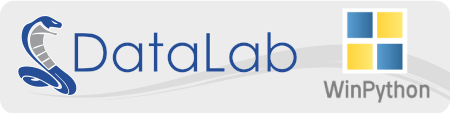
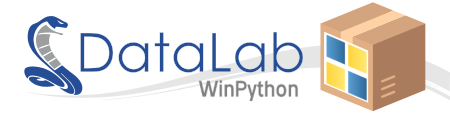
Add DataLab-WinPython image to README

diff --git a/README.md b/README.md
@@ -1,6 +1,8 @@
 DataLab-WinPython
 =================
 
+![DataLab-WinPython](https://raw.githubusercontent.com/DataLab-Platform/DataLab-WinPython/main/resources/DataLab-WinPython.png)
+
 Description
 -----------
 
